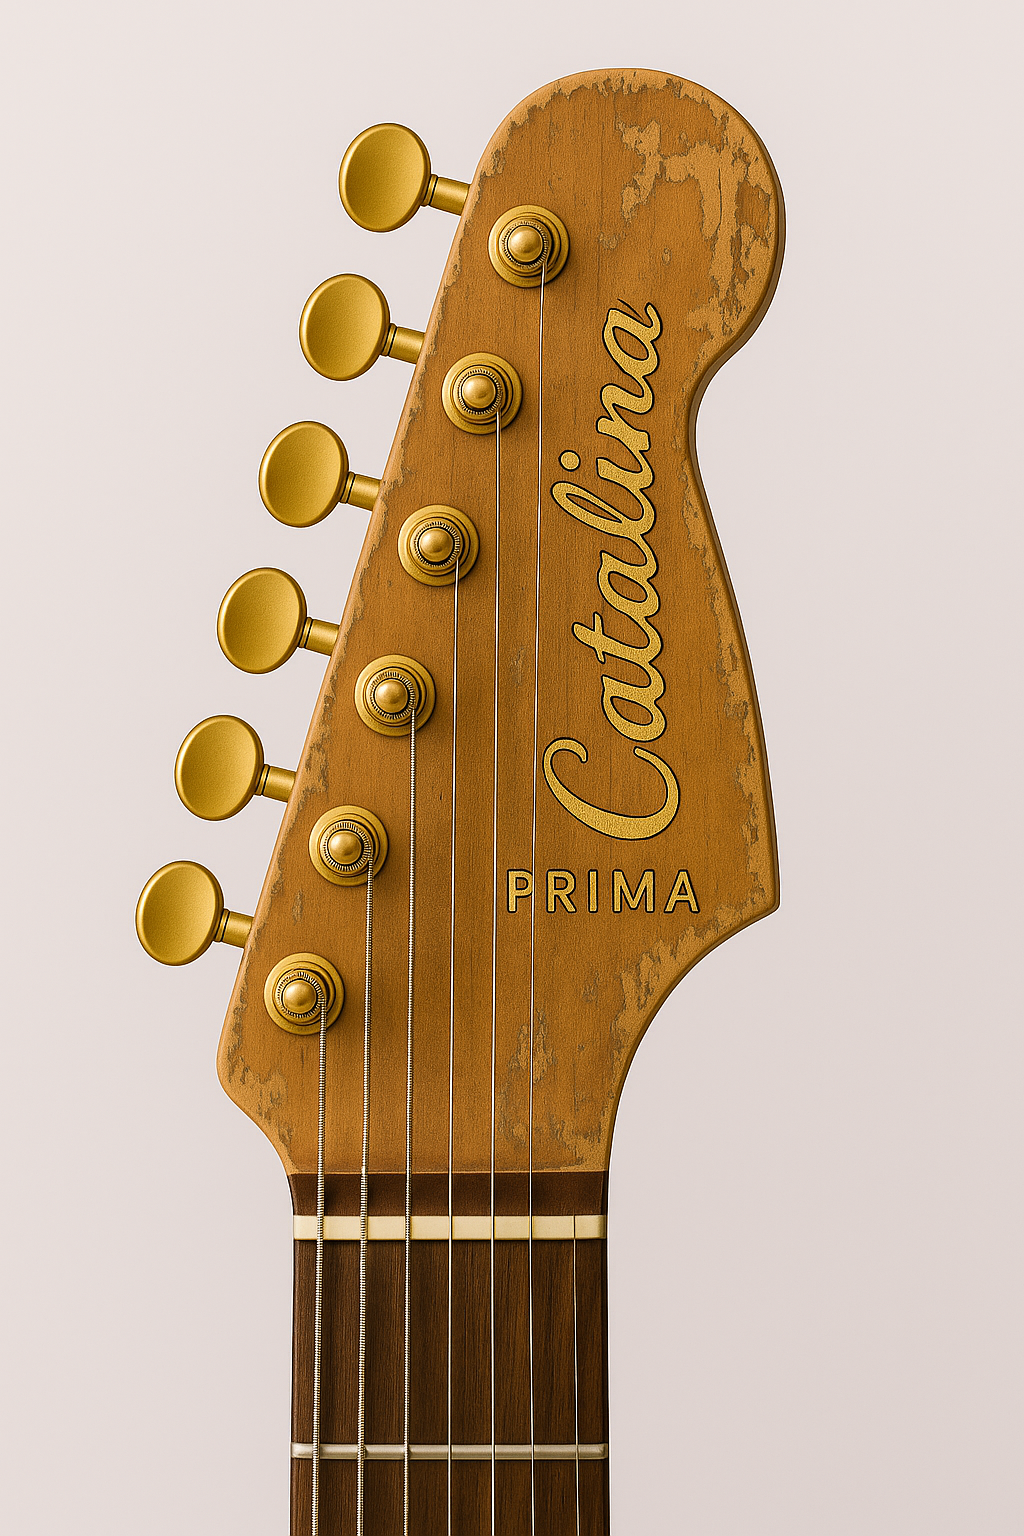
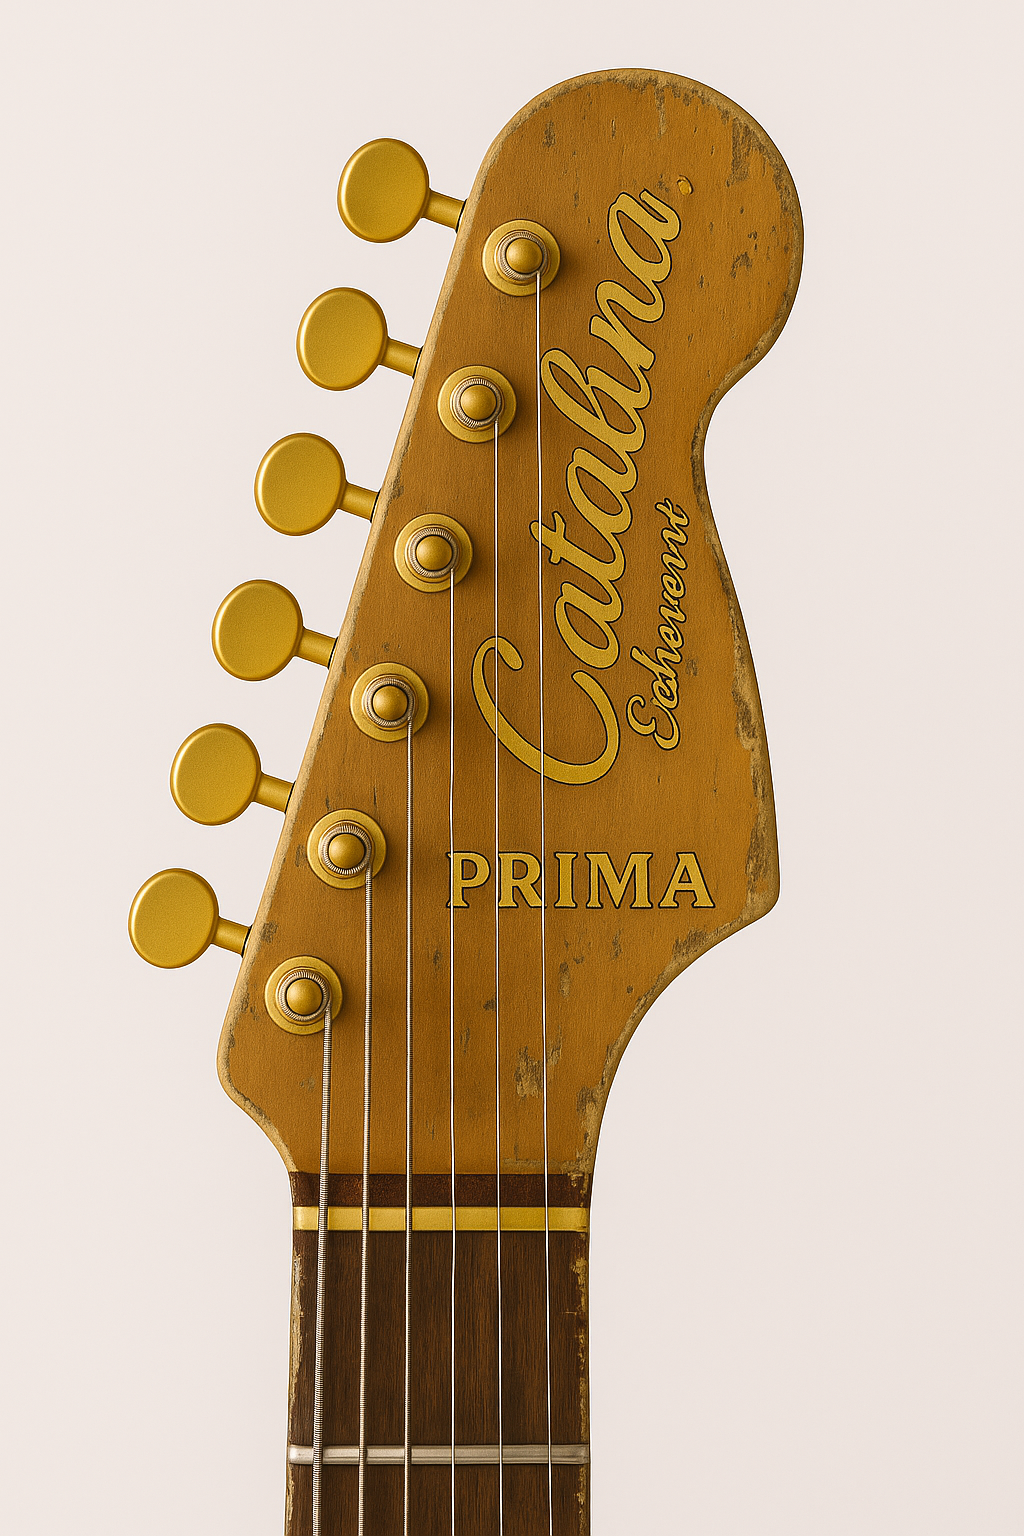
feat: update Catalina Rosa guitar specs with detailed wood, finish and hardware descriptions

Changed region(s): [[0.125, 0.0312, 0.8125, 1.0]]

diff --git a/src/app/catalina-rosa/page.tsx b/src/app/catalina-rosa/page.tsx
@@ -67,21 +67,33 @@ export default function CatalinaRosaPage() {
     "Body & Neck": [
       {
         feature: "Body Wood",
-        prima: "Premium Poplar",
-        secunda: "Nyatoh",
-        terza: "Nyatoh w/ Maple Cap",
+        prima: "Premium Poplar with extensive weight relief chambering",
+        secunda: "Poplar with standard weight relief",
+        terza: "Poplar with minimal chambering",
+      },
+      {
+        feature: "Body Finish",
+        prima: "Nitrocellulose shell pink with premium relic treatment",
+        secunda: "Satin polyurethane shell pink with light relic",
+        terza: "Open-pore satin shell pink, non-relic",
       },
       {
         feature: "Neck Wood",
-        prima: "Premium Roasted Maple",
-        secunda: "Satin Maple",
-        terza: "Standard Roasted Maple",
+        prima: "Roasted quarter-sawn maple",
+        secunda: "Roasted maple",
+        terza: "Roasted maple",
+      },
+      {
+        feature: "Neck Profile",
+        prima: "Custom slim C-shape with hand-finished contour",
+        secunda: "Modern C-shape",
+        terza: "Standard C-shape",
       },
       {
         feature: "Fretboard",
-        prima: "Dark Ebony",
-        secunda: "Indian Laurel",
-        terza: "Indian Laurel",
+        prima: "Dark Indian rosewood with ebony treatment",
+        secunda: "Indian rosewood",
+        terza: "Indian rosewood",
       },
       {
         feature: "Radius",
@@ -91,81 +103,99 @@ export default function CatalinaRosaPage() {
       },
       {
         feature: "Frets",
-        prima: "22 Jumbo Stainless (PLEKd)",
-        secunda: "22 Jumbo Nickel-Silver",
-        terza: "22 Medium Jumbo Stainless",
+        prima: "22 Jumbo stainless steel, PLEK'd",
+        secunda: "22 Jumbo stainless steel, PLEK'd",
+        terza: "22 Jumbo stainless steel",
+      },
+      {
+        feature: "Inlays",
+        prima: "Custom rosebud abalone-look inlays",
+        secunda: "Single rosebud inlay at 12th fret, pearl dots elsewhere",
+        terza: "Pearl dots",
+      },
+      {
+        feature: "Neck Finish",
+        prima: "Satin with hand-rubbed oil feel",
+        secunda: "Satin",
+        terza: "Satin",
       },
     ],
     Electronics: [
       {
+        feature: "Nut",
+        prima: "Bone",
+        secunda: "TUSQ",
+        terza: "TUSQ",
+      },
+      {
         feature: "Pickup Configuration",
-        prima: "HSS (Custom)",
-        secunda: "HSS",
-        terza: "HSS",
+        prima: "HSS (Corazón bridge, Serena middle/neck)",
+        secunda: "HSS (Corazón bridge, Serena middle/neck)",
+        terza: "HSS (Corazón bridge, Serena middle/neck)",
       },
       {
-        feature: "Neck Pickup",
-        prima: "V1 Alnico V (Staggered)",
-        secunda: "V2 Alnico SC",
-        terza: "Terza Ceramic SC",
+        feature: "Controls",
+        prima: "Volume, two tone (one push-pull), 5-way switch",
+        secunda: "Volume, two tone (one push-pull), 5-way switch",
+        terza: "Volume, two tone (one push-pull), 5-way switch",
       },
       {
-        feature: "Middle Pickup",
-        prima: "V1 RWRP Alnico V",
-        secunda: "V2 RWRP Alnico V",
-        terza: "Terza RWRP Ceramic SC",
-      },
-      {
-        feature: "Bridge Pickup",
-        prima: "Custom Mini-Humbucker (Alnico V)",
-        secunda: "Rail Mini-Humbucker (Alnico)",
-        terza: "Rail Mini-Humbucker (Ceramic)",
+        feature: "Electronics",
+        prima: "CTS pots, Orange Drop caps, premium switch, shielded cavity",
+        secunda: "CTS pots, quality caps, shielded cavity",
+        terza: "Alpha pots, quality caps, shielded cavity",
       },
     ],
     Hardware: [
       {
         feature: "Bridge",
-        prima: "MannMade PRS SE w/ Custom Saddles",
-        secunda: "Wilkinson 2-Point (Gold)",
-        terza: "Standard 2-Point (Gold)",
+        prima: "Echeverri Custom Bridge w/ GraphTech saddles",
+        secunda: "Echeverri Custom Bridge w/ GraphTech saddles",
+        terza: "Two-point tremolo w/ GraphTech saddles",
       },
       {
         feature: "Tuners",
-        prima: "Gotoh Hybrid Locking (Black/Gold)",
-        secunda: "Jin-Ho Locking (Black/Gold)",
-        terza: "Die-Cast Locking (Gold)",
+        prima: "Echeverri Custom Locking Tuners (gold-plated)",
+        secunda: "Echeverri Custom Locking Tuners (gold-plated)",
+        terza: "Standard sealed tuners (gold-plated)",
       },
       {
-        feature: "Strap Locks",
-        prima: "Schaller S-Locks (Gold)",
-        secunda: "Echeverri Strap Buttons",
-        terza: "Echeverri Strap Buttons",
+        feature: "Strap Buttons",
+        prima: "Schaller Strap Locks (gold)",
+        secunda: "Schaller Strap Locks (gold)",
+        terza: "Schaller Strap Locks (gold)",
+      },
+      {
+        feature: "String Gauge",
+        prima: "10-46 premium brand",
+        secunda: "10-46 premium brand",
+        terza: "10-46 premium brand",
       },
     ],
     Aesthetics: [
       {
         feature: "Pickguard",
-        prima: "Brushed Gold Aluminum (Matte)",
-        secunda: "Brushed Matte Gold PVC",
-        terza: "Gold Anodized Aluminum (Std)",
+        prima: "Brushed gold aluminum",
+        secunda: "Brushed gold anodized aluminum-look plastic",
+        terza: "Gold anodized plastic",
       },
       {
-        feature: "Inlays",
-        prima: "White Rosebuds (Abalone)",
-        secunda: "White Rosebud @ 12th Fret",
-        terza: "Gold Dot Inlays",
-      },
-      {
-        feature: "Hardware Finish",
-        prima: "Anodized Gold & Brushed Black",
-        secunda: "Gold-Plated Zinc + Black Accents",
-        terza: "Full Gold Hardware",
+        feature: "Hardware Color",
+        prima: "Anodized gold with brushed black accents",
+        secunda: "Gold-plated",
+        terza: "Gold-plated",
       },
       {
         feature: "Case",
-        prima: "Molded Flight Case (Pink Plush)",
-        secunda: "Deluxe Gig Bag (Pink Interior)",
-        terza: "Padded Gig Bag (Embroidered)",
+        prima: "Molded flight case with pink plush interior",
+        secunda: "Deluxe gig bag with pink interior",
+        terza: "Standard gig bag with embroidered logo",
+      },
+      {
+        feature: "Documentation",
+        prima: "Custom certificate, setup card, polish cloth",
+        secunda: "Setup card, polish cloth",
+        terza: "Setup card",
       },
     ],
   };

diff --git a/src/app/catalina-rosa/secunda/page.tsx b/src/app/catalina-rosa/secunda/page.tsx
@@ -241,11 +241,10 @@ export default function RosaSecundaPage() {
               mainImage="/assets/apps/catalina-rosa/secunda.png"
               thumbnails={[
                 "/assets/apps/catalina-rosa/secunda.png",
-                "/assets/apps/catalina-rosa/terza-back.png",
                 "/assets/apps/catalina-rosa/tuners.webp",
                 "/assets/apps/catalina-rosa/neck.png",
-                "/assets/apps/catalina-rosa/pickups.png",
-                "/assets/apps/catalina-rosa/terza-headstock.png",
+                "/assets/apps/catalina-rosa/secunda-headstock.png",
+                "/assets/apps/catalina-rosa/secunda-body-01.png",
                 "/assets/apps/catalina-rosa/secunda-body-03.png",
                 "/assets/apps/catalina-rosa/secunda-body-02.png",
               ]}

diff --git a/src/app/catalina-rosa/terza/page.tsx b/src/app/catalina-rosa/terza/page.tsx
@@ -229,6 +229,7 @@ export default function RosaTerzaPage() {
               thumbnails={[
                 "/assets/apps/catalina-rosa/terza.png",
                 "/assets/apps/catalina-rosa/terza-back.png",
+                "/assets/apps/catalina-rosa/terza-back.png",
                 "/assets/apps/catalina-rosa/tuners.webp",
                 "/assets/apps/catalina-rosa/neck.png",
                 "/assets/apps/catalina-rosa/pickups.png",
